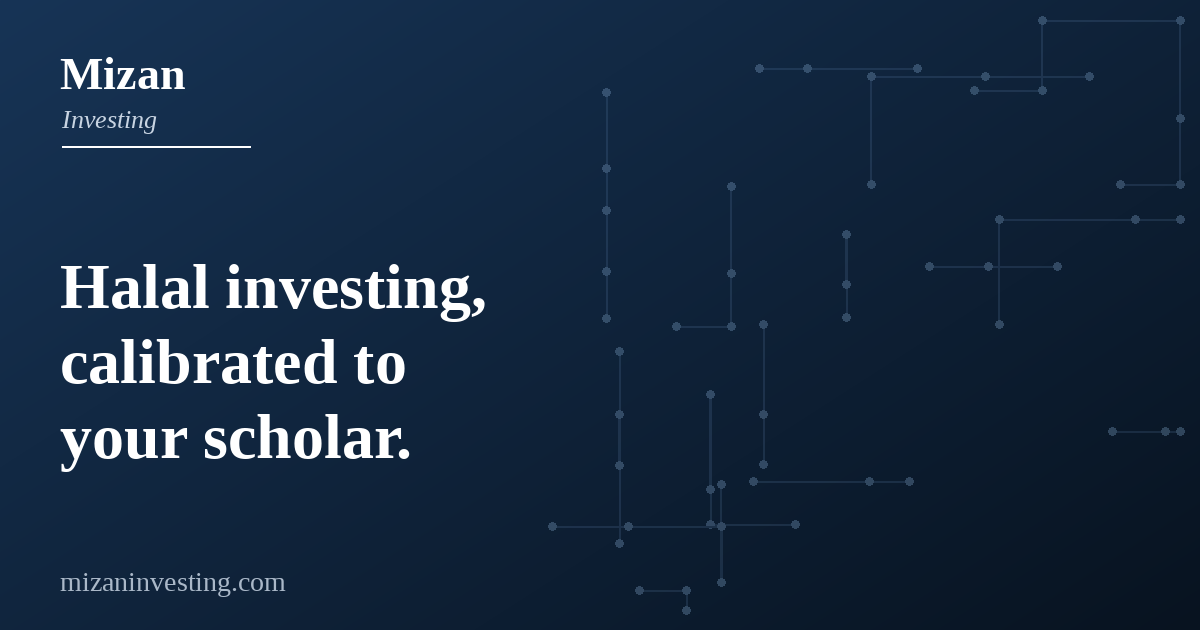
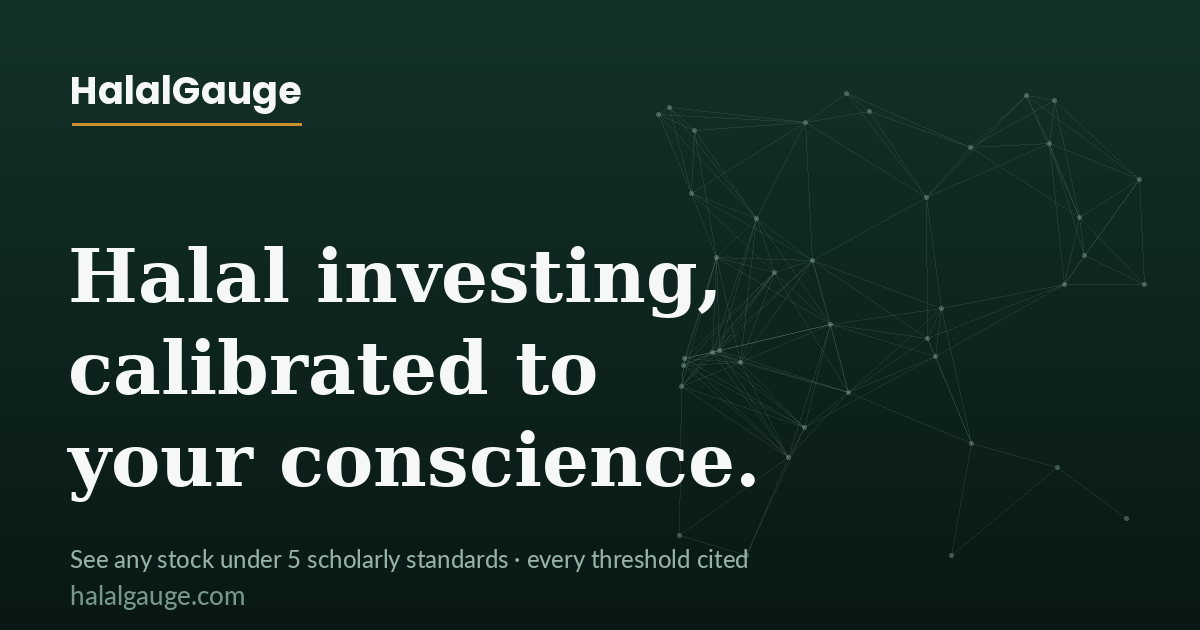
New HalalGauge OG/link-preview image (replaces old Mizan), bump cache v4

diff --git a/src/app/layout.tsx b/src/app/layout.tsx
@@ -37,7 +37,7 @@ export const metadata: Metadata = {
       "The first stock screener that adapts to your scholar. Five scholarly standards plus a custom builder. Transparent ratio reasoning behind every verdict.",
     url: "https://halalgauge.com",
     siteName: "HalalGauge",
-    images: [{ url: "/og-image.png?v=3", width: 1200, height: 630, alt: "HalalGauge — multi-scholar halal investing screener" }],
+    images: [{ url: "/og-image.png?v=4", width: 1200, height: 630, alt: "HalalGauge — multi-scholar halal investing screener" }],
     locale: "en_US",
     type: "website",
   },
@@ -46,7 +46,7 @@ export const metadata: Metadata = {
     title: "HalalGauge — halal investing, calibrated to your conscience.",
     description: "The first stock screener that adapts to your scholar's methodology.",
     creator: "@mizanapp",
-    images: ["/og-image.png?v=3"],
+    images: ["/og-image.png?v=4"],
   },
   robots: {
     index: true,
